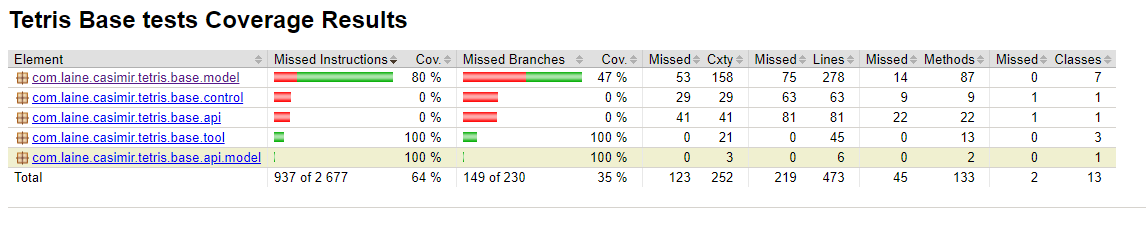
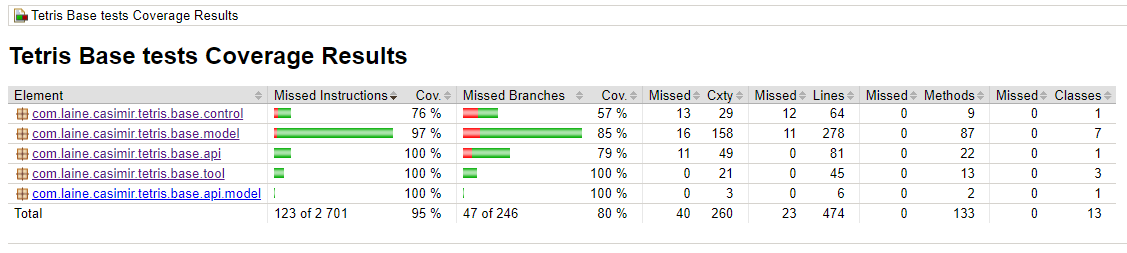
Updated test coverage.

diff --git a/docs/testing.md b/docs/testing.md
@@ -1,5 +1,7 @@
 # Test document
 
+The program has been tested with **Java** version 17.
+
 Program has been tested using various methods.
 - Unit tests from [tetris-swing](https://github.com/CasimirLaine/tetris-base/tree/master/src/test/java/com/laine/casimir/tetris/base) testing the application logic.
 - Integration tests have been performed on different operating systems (Windows and Linux)
@@ -20,7 +22,7 @@ The Java Swing user interface of the application has not been tested via unit te
 
 ### Test coverage
 
-Test coverage of the application logic in tetris-base is 53%.
+Test coverage of the application logic in tetris-base is 95%.
 
 ## Integration tests
 
